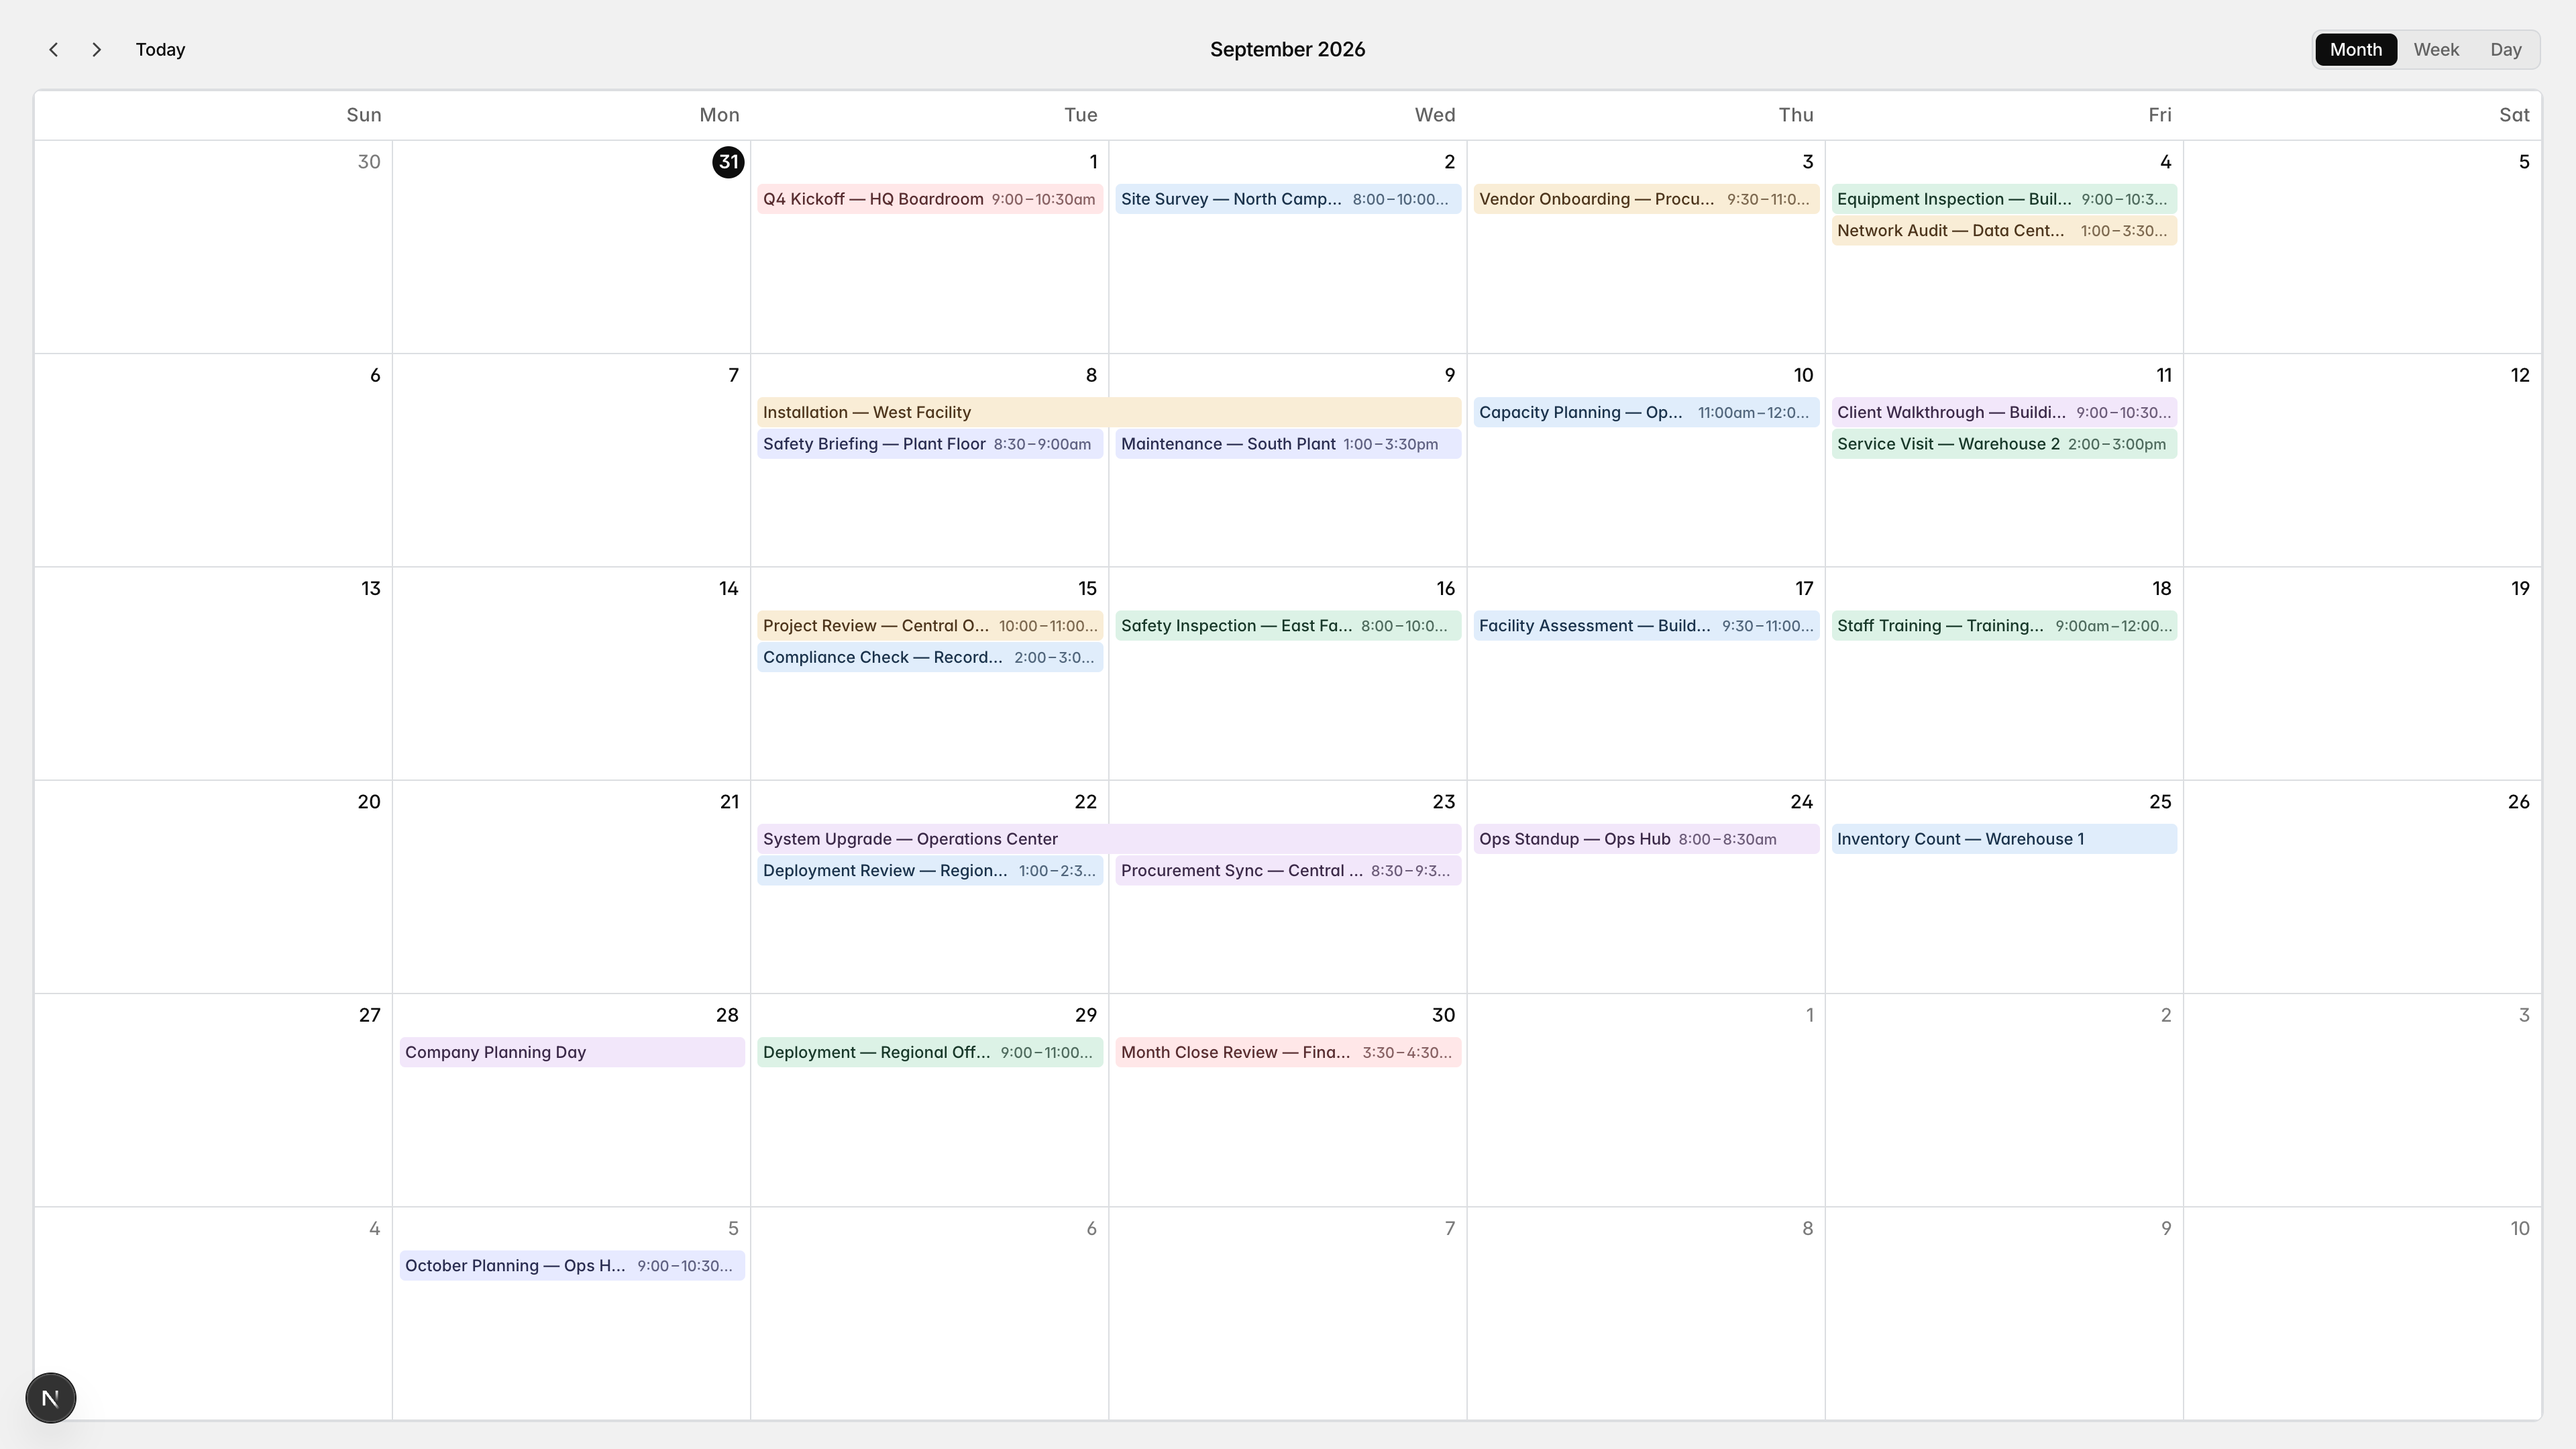
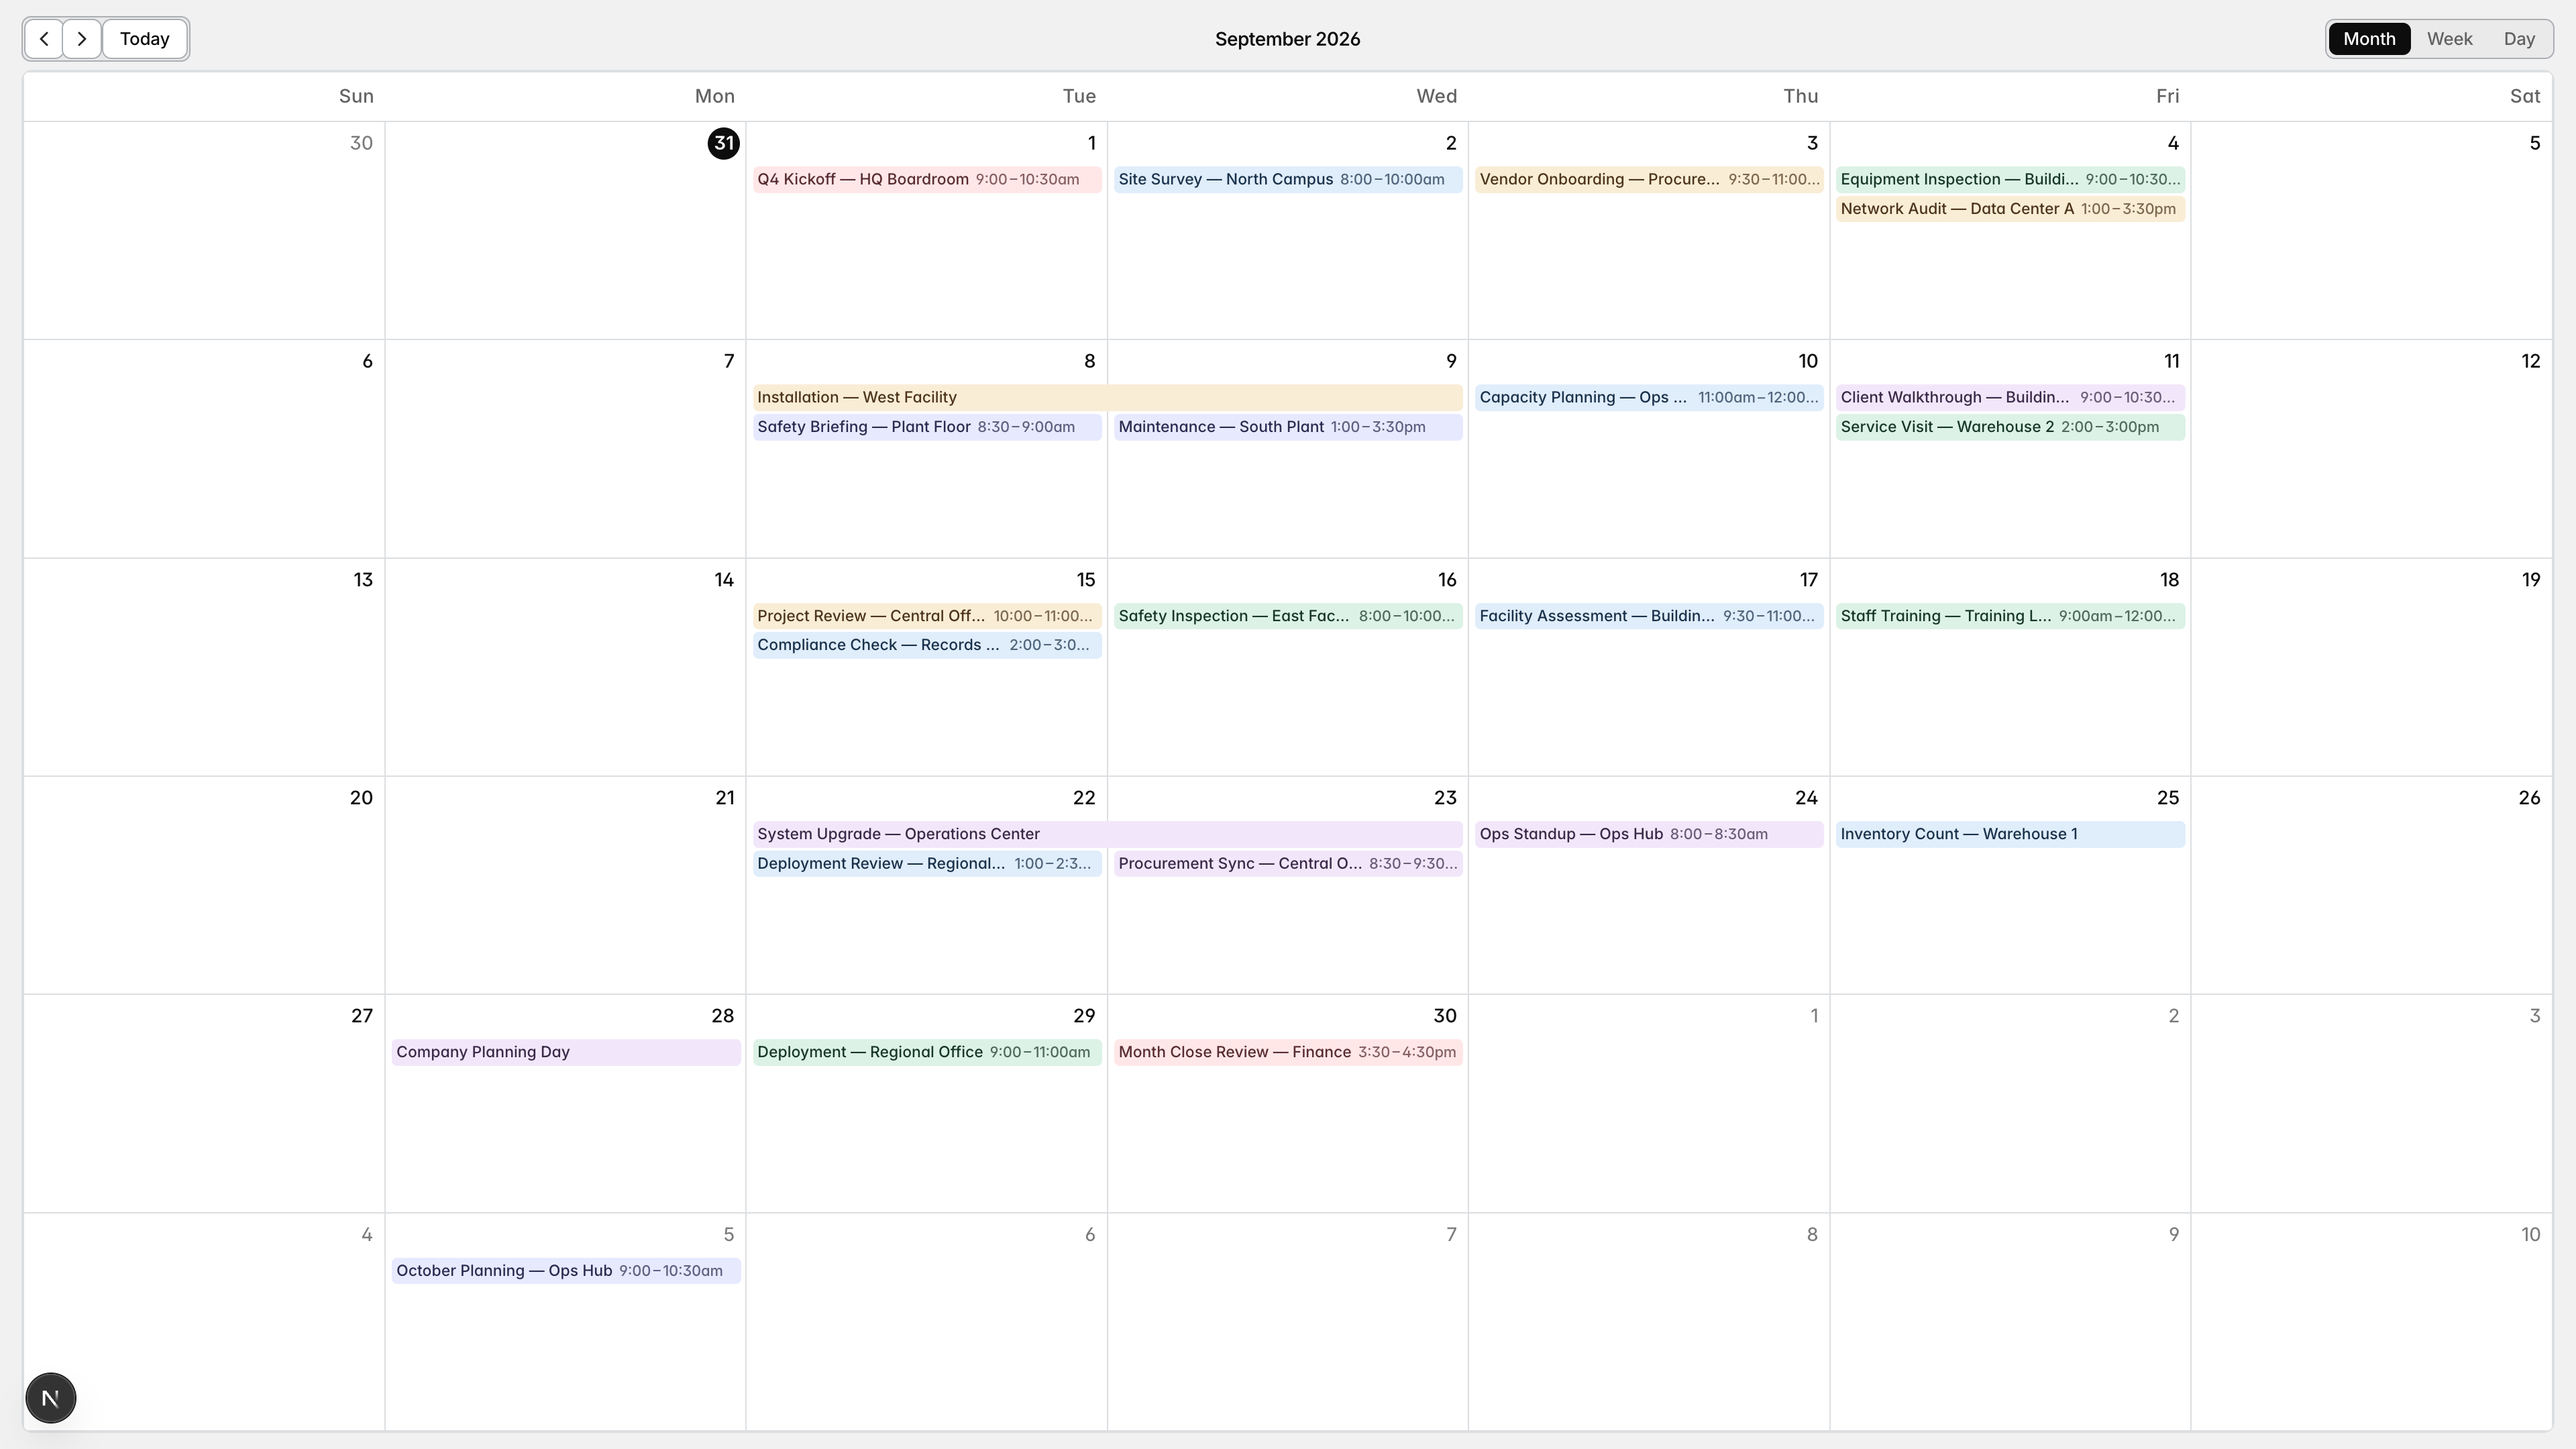
Tighten calendar density and give nav controls clear button chrome.
Group prev/next/Today in a bordered control track with white chips, reduce page/toolbar chrome, and compress week/day slots for higher information density.

diff --git a/src/calendar/calendar-theme.css b/src/calendar/calendar-theme.css
@@ -11,7 +11,7 @@
   --foreground: var(--pt-foreground);
   --muted-foreground: var(--pt-muted-foreground);
   --border: var(--pt-border);
-  --control-background: transparent;
+  --control-background: var(--surface);
   --control-hover: oklch(0% 0 0 / 0.04);
   --control-active: oklch(0% 0 0 / 0.08);
   --focus-ring: var(--pt-focus);
@@ -48,7 +48,7 @@
 .calendar-surface {
   display: flex;
   flex-direction: column;
-  gap: 0.5rem;
+  gap: 0.375rem;
 }
 
 .calendar-frame {
@@ -72,21 +72,25 @@
   display: grid;
   grid-template-columns: minmax(0, 1fr) auto minmax(0, 1fr);
   align-items: center;
-  column-gap: 1.25rem;
-  padding: 0.125rem 0.125rem 0.375rem;
+  column-gap: 1rem;
+  padding: 0;
 }
 
 .calendar-toolbar__nav {
-  display: flex;
+  display: inline-flex;
   align-items: center;
-  gap: 0.25rem;
+  gap: 0;
   justify-self: start;
+  padding: 2px;
+  border: 1px solid oklch(78% 0.008 260);
+  border-radius: calc(var(--pt-radius) - 1px);
+  background: oklch(0% 0 0 / 0.03);
 }
 
 .calendar-toolbar__title {
   margin: 0;
   justify-self: center;
-  font-size: 0.9375rem;
+  font-size: 0.875rem;
   font-weight: 550;
   letter-spacing: -0.02em;
   line-height: 1.25;
@@ -100,7 +104,7 @@
   gap: 1px;
   justify-self: end;
   padding: 2px;
-  border: 1px solid var(--border);
+  border: 1px solid oklch(78% 0.008 260);
   border-radius: calc(var(--pt-radius) - 1px);
   background: oklch(0% 0 0 / 0.03);
 }
@@ -113,7 +117,7 @@
   margin: 0;
   border: 1px solid transparent;
   border-radius: calc(var(--pt-radius) - 2px);
-  background: var(--control-background);
+  background: transparent;
   color: var(--foreground);
   font-family: inherit;
   font-size: 0.8125rem;
@@ -132,12 +136,17 @@
   width: 1.75rem;
   height: 1.75rem;
   padding: 0;
-  color: oklch(40% 0 0);
+  background: var(--surface);
+  color: oklch(28% 0 0);
+  box-shadow: 0 0 0 1px oklch(78% 0.008 260);
 }
 
 .calendar-control--text {
   height: 1.75rem;
-  padding: 0 0.625rem;
+  padding: 0 0.7rem;
+  margin-inline-start: 2px;
+  background: var(--surface);
+  box-shadow: 0 0 0 1px oklch(78% 0.008 260);
 }
 
 .calendar-control--toggle {
@@ -148,8 +157,13 @@
 
 @media (hover: hover) {
   .calendar-control:hover:not([data-disabled]) {
-    background: var(--control-hover);
+    background: oklch(97% 0 0);
     color: var(--foreground);
+  }
+
+  .calendar-control--icon:hover:not([data-disabled]),
+  .calendar-control--text:hover:not([data-disabled]) {
+    box-shadow: 0 0 0 1px oklch(65% 0.01 260);
   }
 
   .calendar-control--toggle[data-pressed]:hover:not([data-disabled]) {
@@ -159,7 +173,7 @@
 }
 
 .calendar-control:active:not([data-disabled]) {
-  background: var(--control-active);
+  background: oklch(94% 0 0);
 }
 
 .calendar-control[data-disabled] {
@@ -168,8 +182,14 @@
 }
 
 .calendar-control--toggle[data-pressed] {
+  border-color: transparent;
   background: var(--foreground);
   color: var(--background);
+}
+
+.calendar-control--icon[data-disabled],
+.calendar-control--text[data-disabled] {
+  background: transparent;
 }
 
 .calendar-control:focus-visible {
@@ -202,20 +222,26 @@
   font-size: 0.75rem;
 }
 
+/* Compact day-number / weekday chrome — reclaim space for events */
+.calendar-frame [role="columnheader"],
+.calendar-frame [data-pt-day] > div:first-child {
+  min-height: 0;
+}
+
 /* ── Events ─────────────────────────────────────────────────────── */
 
 .pt-event {
   display: flex;
   align-items: baseline;
-  gap: 0.35rem;
+  gap: 0.3rem;
   min-width: 0;
   width: 100%;
-  font-size: 0.75rem;
-  line-height: 1.25;
+  font-size: 0.71875rem;
+  line-height: 1.2;
 }
 
 .pt-event--month {
-  padding: 0.05rem 0.15rem 0.05rem 0.2rem;
+  padding: 0 0.1rem 0 0.15rem;
 }
 
 .pt-event--block {
@@ -273,6 +299,7 @@
   background-color: var(--fc-event-color);
   color: var(--fc-event-contrast-color);
   border-radius: calc(var(--pt-radius) - 4px);
+  margin-block: 1px;
   transition:
     background-color var(--pt-transition),
     filter var(--pt-transition),

diff --git a/src/app/globals.css b/src/app/globals.css
@@ -41,7 +41,7 @@ body {
   position: relative;
   min-height: 100vh;
   min-height: 100dvh;
-  padding: 20px 24px;
+  padding: 12px 16px;
   background: var(--pt-page);
   color: var(--pt-foreground);
   font-family: var(--font-inter), ui-sans-serif, system-ui, sans-serif;
@@ -56,18 +56,18 @@ body {
 }
 
 .calendar-surface {
-  height: calc(100vh - 40px);
-  height: calc(100dvh - 40px);
+  height: calc(100vh - 24px);
+  height: calc(100dvh - 24px);
   min-height: 480px;
 }
 
 @media (max-width: 720px) {
   body {
-    padding: 12px;
+    padding: 8px;
   }
 
   .calendar-surface {
-    height: calc(100vh - 24px);
-    height: calc(100dvh - 24px);
+    height: calc(100vh - 16px);
+    height: calc(100dvh - 16px);
   }
 }

diff --git a/src/calendar/CalendarApp.tsx b/src/calendar/CalendarApp.tsx
@@ -219,6 +219,9 @@ export function CalendarApp({ repository: injectedRepository }: CalendarAppProps
               })}
               eventContent={CalendarEventContent}
               height="100%"
+              expandRows={false}
+              slotMinHeight={28}
+              eventMinHeight={16}
               datesSet={onDatesSet}
               dayCellDidMount={(info) => {
                 info.el.dataset.ptDay = info.isOther ? "other" : "current";
